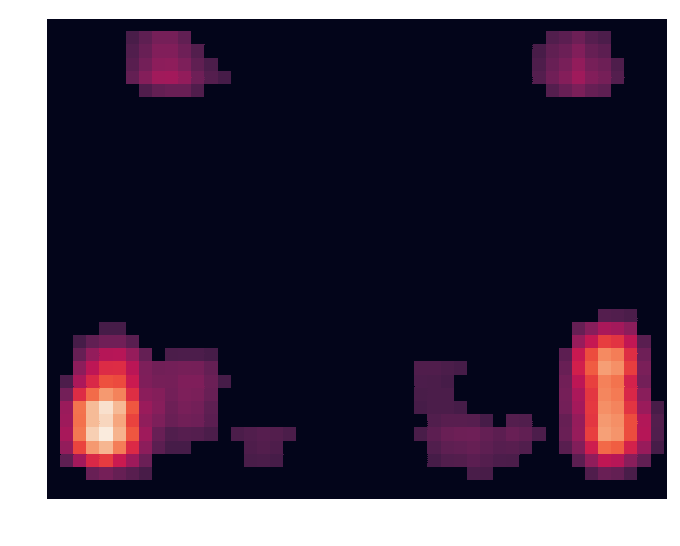
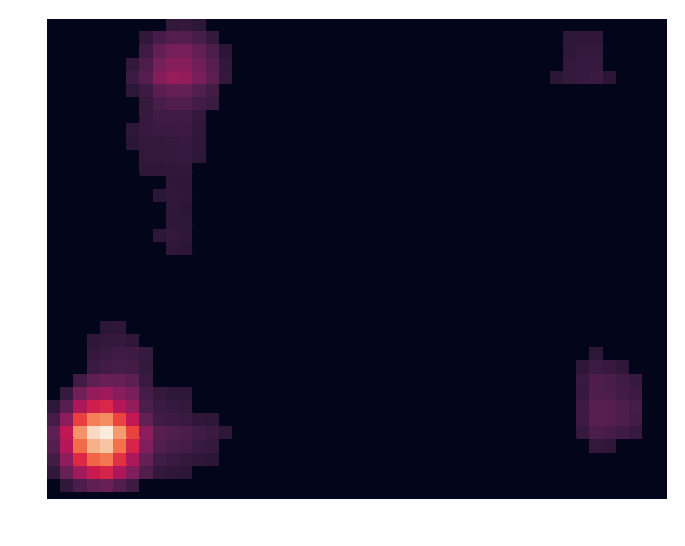
Fixed scaling

diff --git a/main2.py b/main2.py
@@ -126,7 +126,7 @@ def classify_board(imgpath):
 				if heatmap[y][x][z] <= 1.5:
 					heatmap[y][x][z] = 0
 
-	visualise_heatmap(img, heatmap, countmap, labels, "heatmaps/")
+	# visualise_heatmap(img, heatmap, countmap, labels, "heatmaps/")
 
 	return heatmap, countmap, center_keypoints, crop_points
 
@@ -162,18 +162,24 @@ def square_classification_smart_precedence(square_data, labels, labels_map, piec
 
 	return square_labels
 
-def apply_scaling(board, square_data, labels, labels_map, board_square_map):
+def scaling_debug(square_data):
 	test = []
 	for i in range(len(square_data)):
-		test.append(int(square_data[i][3]))
+		test.append(int(square_data[i][5]))
 	print np.reshape(test, (8,8))
 
+def apply_scaling(board, square_data, labels, labels_map, board_square_map):
+	
+	# scaling_debug(square_data)
+
 	square_data_ordered = np.reshape(square_data, (8,8,13))
-	for i in range(len(square_data_ordered)/2):
-		copy = list(square_data_ordered[i])
-		square_data_ordered[i] = list(square_data_ordered[-i-1])
-		square_data_ordered[-i-1] = list(copy)
+	square_data_ordered = np.reshape(square_data_ordered, (8,104))
+	square_data_ordered = np.flipud(square_data_ordered)
+	square_data_ordered = np.reshape(square_data_ordered, (8,8,13))
+
 	square_data_ordered = np.reshape(square_data_ordered, (64,13))
+
+	# scaling_debug(square_data)
 	
 	for i in range(len(square_data_ordered)):
 		if board.piece_at(i) != None:
@@ -182,30 +188,22 @@ def apply_scaling(board, square_data, labels, labels_map, board_square_map):
 			piece = "empty_square"
 		square = board_square_map.keys()[board_square_map.values().index(i)]
 
-		square_data_ordered[i][labels.index(piece)] *= 3
+		square_data_ordered[i][labels.index(piece)] *= 10
 
-		"""
 		for move in board.legal_moves:
 			move = move.uci()
 			if move[0:2] == square:
 				index = board_square_map[move[2:4]]
-				square_data_ordered[index][labels.index(piece)] *= 2
-		"""
+				square_data_ordered[index][labels.index(piece)] *= 5
 
-	square_data_ordered2 = np.reshape(square_data_ordered, (8,8,13))
-	for i in range(len(square_data_ordered2)/2):
-		copy = [list(j) for j in square_data_ordered2[i]]
-		square_data_ordered2[i] = [list(j) for j in square_data_ordered2[-i-1]]
-		square_data_ordered2[-i-1] = [list(j) for j in copy]
-	square_data_ordered = np.reshape(square_data_ordered2, (64,13))
+	square_data_ordered = np.reshape(square_data_ordered, (8,8,13))
+	square_data_ordered = np.reshape(square_data_ordered, (8,104))
+	square_data_ordered = np.flipud(square_data_ordered)
+	square_data_ordered = np.reshape(square_data_ordered, (8,8,13))
 
-	square_data = square_data_ordered
+	square_data = np.reshape(square_data_ordered, (64,13))
 
-	test = []
-	for i in range(len(square_data)):
-		test.append(int(square_data[i][3]))
-	print np.reshape(test, (8,8))
-
+	# scaling_debug(square_data)
 
 	return square_data
 	
@@ -262,7 +260,7 @@ model_path = "models/inception22.pb"
 labels_path = "labels.txt"
 # labels_path = "inception17.txt"
 # imgpath = "test_images/camera_image2.jpeg"
-imgpath = "pictures/5.jpeg"
+imgpath = "pictures/3.jpeg"
 # imgpath = "pictures/queen/1.jpeg"
 
 # list_of_files = glob.glob('board_images/*')
